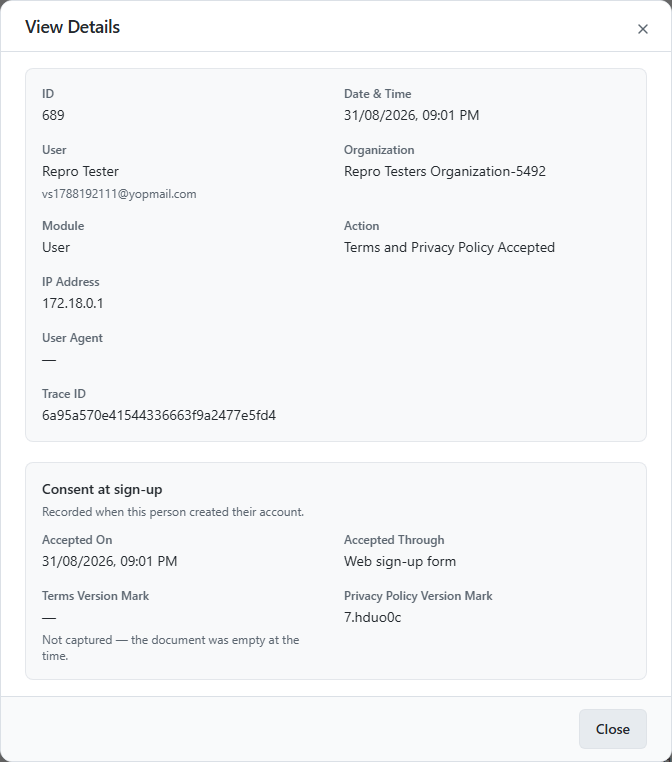
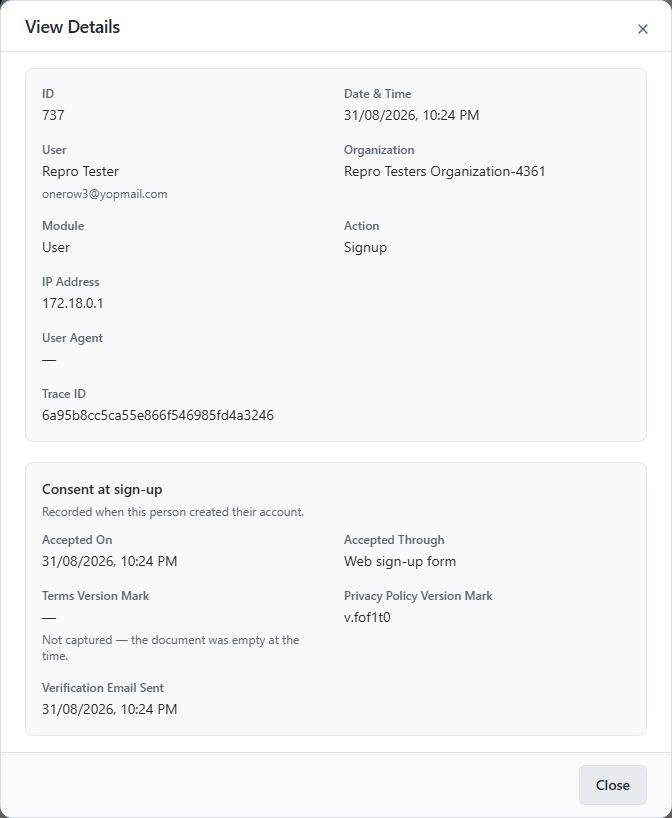
vs-864

diff --git a/docs/other_admin_operations/activity_logs.md b/docs/other_admin_operations/activity_logs.md
@@ -27,17 +27,22 @@ Click the **eye icon** in the **View Changes** column on any row to see exactly 
 
 ### Consent at sign-up
 
-One row type carries an extra panel. **Terms and Privacy Policy Accepted** records that a person
-accepted the Terms of Service and Privacy Policy when their account was created, and its details
-panel shows the time they accepted, which screen collected it, and the marks identifying the exact
-wording they were shown. See
+Two row types carry an extra panel.
+
+**Signup** is an account being created. Creating one used to leave two entries — the acceptance and the verification email — which a reader had to put back together; it is now one row, and the panel carries both. It shows when the person accepted the Terms and Privacy Policy, which screen collected it, the marks identifying the exact wording they were shown, and when their first verification email went out.
+
+**Terms and Privacy Policy Accepted** is the same acceptance without a sign-up around it — an invited member finishing their setup, or somebody asked once after a social sign-in. See
 [Consent Records](../compliance/consent_records.md#4-terms-acceptance-at-account-creation).
 
 ![admin-activity-logs-consent.png](../images/admin-activity-logs-consent.png)
 
 !!! note ""
-    **Previous** and **Current** are not shown on a consent row. It records something that happened
-    rather than something that changed, so there is no before and after — the panel is the whole
-    record. Every other row type is unchanged.
+    **Previous** and **Current** are not shown on these two rows. They record something that
+    happened rather than something that changed, so there is no before and after — the panel is the
+    whole record. Every other row type is unchanged.
+
+    A **later** verification email — one the person asks for from the "check your email" screen —
+    still gets its own **Email Verification Sent** row. Only the first, the one that belongs to the
+    sign-up, is folded in.
 
 Click **Close** to return to the log list.

diff --git a/docs/compliance/consent_records.md b/docs/compliance/consent_records.md
@@ -126,7 +126,7 @@ If a policy has never been published, the mark is empty and the attribute is sim
 
 **Start in the admin console — you no longer need Keycloak for this.**
 
-Every acceptance now writes its own row into [Activity Logs](../other_admin_operations/activity_logs.md), listed as **Terms and Privacy Policy Accepted**. Click the row's **view** icon and the details panel includes a **Consent at sign-up** section:
+Every acceptance writes a row into [Activity Logs](../other_admin_operations/activity_logs.md). Creating an account is listed as **Signup**; accepting during an invitation setup or after a social sign-in is listed as **Terms and Privacy Policy Accepted**. Click the row's **view** icon and the details panel includes a **Consent at sign-up** section:
 
 | Field | Contains |
 | --- | --- |
@@ -134,6 +134,7 @@ Every acceptance now writes its own row into [Activity Logs](../other_admin_oper
 | **Accepted Through** | Which screen collected it — web sign-up form, invitation setup, prompted after sign-in, mobile app or API |
 | **Terms Version Mark** | The mark identifying the exact Terms wording they accepted |
 | **Privacy Policy Version Mark** | The same for the Privacy Policy |
+| **Verification Email Sent** | When the account's first verification email went out. On a **Signup** row only |
 
 The row carries these values itself rather than looking them up, so it still answers the question after the account has been deleted and its Keycloak user removed — which is usually when the question arrives.
 
